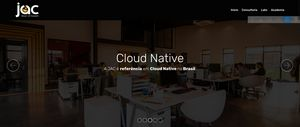
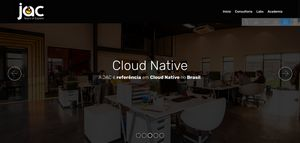
Remove Labs do Menu

diff --git a/index.html b/index.html
@@ -13,12 +13,11 @@ Consultoria, serviços e treinamentos. Sob medida. Simples assim.">
   
   <title>JAC | Team of experts</title>
   <link rel="stylesheet" href="assets/web/assets/mobirise-icons/mobirise-icons.css">
-  <link rel="stylesheet" href="assets/facebook-plugin/style.css">
   <link rel="stylesheet" href="assets/bootstrap/css/bootstrap.min.css">
   <link rel="stylesheet" href="assets/bootstrap/css/bootstrap-grid.min.css">
   <link rel="stylesheet" href="assets/bootstrap/css/bootstrap-reboot.min.css">
-  <link rel="stylesheet" href="assets/dropdown/css/style.css">
   <link rel="stylesheet" href="assets/tether/tether.min.css">
+  <link rel="stylesheet" href="assets/dropdown/css/style.css">
   <link rel="stylesheet" href="assets/socicon/css/styles.css">
   <link rel="stylesheet" href="assets/theme/css/style.css">
   <link rel="preload" as="style" href="assets/mobirise/css/mbr-additional.css"><link rel="stylesheet" href="assets/mobirise/css/mbr-additional.css" type="text/css">
@@ -73,9 +72,7 @@ ga('send', 'pageview');
                     <a class="nav-link link text-white display-4" href="consultoria.html">
                         Consultoria</a>
                 </li>
-              <li class="nav-item">
-                    <a class="nav-link link text-white display-4" href="noc.html">Labs</a>
-                </li>
+              
               
                 <li class="nav-item">
                     <a class="nav-link link text-white display-4" href="https://academia.jac.bsb.br" target="_blank">
@@ -86,7 +83,7 @@ ga('send', 'pageview');
     </nav>
 </section>
 
-<section class="engine"><a href="https://mobirise.info/g">how to build a site</a></section><section class="carousel slide cid-rYZTIAFpR9" data-interval="false" id="slider1-12">
+<section class="engine"><a href="https://mobirise.info/i">website creation software</a></section><section class="carousel slide cid-rYZTIAFpR9" data-interval="false" id="slider1-12">
 
     
 
@@ -113,7 +110,7 @@ ga('send', 'pageview');
                     <div class="media-container-column" data-form-type="formoid">
                         <!---Formbuilder Form--->
                       
[2 lines of base64/hex data omitted]
                             <div class="row">
                                 <div hidden="hidden" data-form-alert="" class="alert alert-success col-12">Em breve responderemos sua mensagem!</div>
                                 <div hidden="hidden" data-form-alert-danger="" class="alert alert-danger col-12">
@@ -603,26 +600,23 @@ ga('send', 'pageview');
 
   <script src="assets/web/assets/jquery/jquery.min.js"></script>
   <script src="assets/popper/popper.min.js"></script>
-  <script src="https://connect.facebook.net/en_US/sdk.js#xfbml=1&version=v2.5"></script>
-  <script src="https://apis.google.com/js/plusone.js"></script>
-  <script src="assets/facebook-plugin/facebook-script.js"></script>
   <script src="assets/bootstrap/js/bootstrap.min.js"></script>
+  <script src="assets/parallax/jarallax.min.js"></script>
   <script src="assets/smoothscroll/smooth-scroll.js"></script>
-  <script src="assets/vimeoplayer/jquery.mb.vimeo_player.js"></script>
-  <script src="assets/dropdown/js/nav-dropdown.js"></script>
-  <script src="assets/dropdown/js/navbar-dropdown.js"></script>
   <script src="assets/touchswipe/jquery.touch-swipe.min.js"></script>
   <script src="assets/ytplayer/jquery.mb.ytplayer.min.js"></script>
+  <script src="assets/vimeoplayer/jquery.mb.vimeo_player.js"></script>
   <script src="assets/tether/tether.min.js"></script>
   <script src="assets/bootstrapcarouselswipe/bootstrap-carousel-swipe.js"></script>
-  <script src="assets/parallax/jarallax.min.js"></script>
+  <script src="assets/dropdown/js/nav-dropdown.js"></script>
+  <script src="assets/dropdown/js/navbar-dropdown.js"></script>
   <script src="assets/viewportchecker/jquery.viewportchecker.js"></script>
   <script src="assets/mbr-testimonials-slider/mbr-testimonials-slider.js"></script>
   <script src="assets/mbr-clients-slider/mbr-clients-slider.js"></script>
   <script src="assets/mbr-switch-arrow/mbr-switch-arrow.js"></script>
   <script src="assets/theme/js/script.js"></script>
-  <script src="assets/slidervideo/script.js"></script>
   <script src="assets/formoid/formoid.min.js"></script>
+  <script src="assets/slidervideo/script.js"></script>
   
   
 </body>

diff --git a/noc.html b/noc.html
@@ -12,13 +12,12 @@
   
   <title>NOC ORCHESTRATOR - JAC | Team of Experts</title>
   <link rel="stylesheet" href="assets/web/assets/mobirise-icons/mobirise-icons.css">
-  <link rel="stylesheet" href="assets/facebook-plugin/style.css">
   <link rel="stylesheet" href="assets/bootstrap/css/bootstrap.min.css">
   <link rel="stylesheet" href="assets/bootstrap/css/bootstrap-grid.min.css">
   <link rel="stylesheet" href="assets/bootstrap/css/bootstrap-reboot.min.css">
+  <link rel="stylesheet" href="assets/socicon/css/styles.css">
   <link rel="stylesheet" href="assets/dropdown/css/style.css">
   <link rel="stylesheet" href="assets/tether/tether.min.css">
-  <link rel="stylesheet" href="assets/socicon/css/styles.css">
   <link rel="stylesheet" href="assets/theme/css/style.css">
   <link rel="preload" as="style" href="assets/mobirise/css/mbr-additional.css"><link rel="stylesheet" href="assets/mobirise/css/mbr-additional.css" type="text/css">
   
@@ -72,9 +71,7 @@ ga('send', 'pageview');
                     <a class="nav-link link text-white display-4" href="consultoria.html">
                         Consultoria</a>
                 </li>
-              <li class="nav-item">
-                    <a class="nav-link link text-white display-4" href="noc.html">Labs</a>
-                </li>
+              
               
                 <li class="nav-item">
                     <a class="nav-link link text-white display-4" href="https://academia.jac.bsb.br" target="_blank">
@@ -85,7 +82,7 @@ ga('send', 'pageview');
     </nav>
 </section>
 
-<section class="engine"><a href="https://mobirise.info/g">how to build a website for free</a></section><section class="mbr-section content4 cid-rZ0fWxIPrX" id="content4-1c">
+<section class="engine"><a href="https://mobirise.info/d">free website maker</a></section><section class="mbr-section content4 cid-rZ0fWxIPrX" id="content4-1c">
 
     
 
@@ -584,7 +581,7 @@ ga('send', 'pageview');
         <div class="row justify-content-center">
             <div class="media-container-column col-lg-8" data-form-type="formoid">
                 <!---Formbuilder Form--->
[2 lines of base64/hex data omitted]
                     <div class="row">
                         <div hidden="hidden" data-form-alert="" class="alert alert-success col-12">Obrigado pelo contato!</div>
                         <div hidden="hidden" data-form-alert-danger="" class="alert alert-danger col-12">
@@ -668,18 +665,15 @@ ga('send', 'pageview');
 
   <script src="assets/web/assets/jquery/jquery.min.js"></script>
   <script src="assets/popper/popper.min.js"></script>
-  <script src="https://connect.facebook.net/en_US/sdk.js#xfbml=1&version=v2.5"></script>
-  <script src="https://apis.google.com/js/plusone.js"></script>
-  <script src="assets/facebook-plugin/facebook-script.js"></script>
   <script src="assets/bootstrap/js/bootstrap.min.js"></script>
   <script src="assets/smoothscroll/smooth-scroll.js"></script>
   <script src="assets/dropdown/js/nav-dropdown.js"></script>
   <script src="assets/dropdown/js/navbar-dropdown.js"></script>
-  <script src="assets/tether/tether.min.js"></script>
   <script src="assets/touchswipe/jquery.touch-swipe.min.js"></script>
   <script src="assets/parallax/jarallax.min.js"></script>
   <script src="assets/viewportchecker/jquery.viewportchecker.js"></script>
   <script src="assets/countdown/jquery.countdown.min.js"></script>
+  <script src="assets/tether/tether.min.js"></script>
   <script src="assets/theme/js/script.js"></script>
   <script src="assets/formoid/formoid.min.js"></script>
   

diff --git a/consultoria.html b/consultoria.html
@@ -12,13 +12,12 @@
   
   <title>Consultoria - JAC | Team of experts</title>
   <link rel="stylesheet" href="assets/web/assets/mobirise-icons/mobirise-icons.css">
-  <link rel="stylesheet" href="assets/facebook-plugin/style.css">
   <link rel="stylesheet" href="assets/bootstrap/css/bootstrap.min.css">
   <link rel="stylesheet" href="assets/bootstrap/css/bootstrap-grid.min.css">
   <link rel="stylesheet" href="assets/bootstrap/css/bootstrap-reboot.min.css">
+  <link rel="stylesheet" href="assets/socicon/css/styles.css">
   <link rel="stylesheet" href="assets/dropdown/css/style.css">
   <link rel="stylesheet" href="assets/tether/tether.min.css">
-  <link rel="stylesheet" href="assets/socicon/css/styles.css">
   <link rel="stylesheet" href="assets/theme/css/style.css">
   <link rel="preload" as="style" href="assets/mobirise/css/mbr-additional.css"><link rel="stylesheet" href="assets/mobirise/css/mbr-additional.css" type="text/css">
   
@@ -72,9 +71,7 @@ ga('send', 'pageview');
                     <a class="nav-link link text-white display-4" href="consultoria.html">
                         Consultoria</a>
                 </li>
-              <li class="nav-item">
-                    <a class="nav-link link text-white display-4" href="noc.html">Labs</a>
-                </li>
+              
               
                 <li class="nav-item">
                     <a class="nav-link link text-white display-4" href="https://academia.jac.bsb.br" target="_blank">
@@ -85,7 +82,7 @@ ga('send', 'pageview');
     </nav>
 </section>
 
-<section class="engine"><a href="https://mobirise.info/q">free responsive site templates</a></section><section class="mbr-section content4 cid-rZ02gkfwUH" id="content4-19">
+<section class="engine"><a href="https://mobirise.info/f">easy web builder</a></section><section class="mbr-section content4 cid-rZ02gkfwUH" id="content4-19">
 
     
 
@@ -233,7 +230,7 @@ ga('send', 'pageview');
         <div class="row justify-content-center">
             <div class="media-container-column col-lg-8" data-form-type="formoid">
                 <!---Formbuilder Form--->
[2 lines of base64/hex data omitted]
                     <div class="row">
                         <div hidden="hidden" data-form-alert="" class="alert alert-success col-12">Obrigado pelo contato!</div>
                         <div hidden="hidden" data-form-alert-danger="" class="alert alert-danger col-12">
@@ -317,17 +314,14 @@ ga('send', 'pageview');
 
   <script src="assets/web/assets/jquery/jquery.min.js"></script>
   <script src="assets/popper/popper.min.js"></script>
-  <script src="https://connect.facebook.net/en_US/sdk.js#xfbml=1&version=v2.5"></script>
-  <script src="https://apis.google.com/js/plusone.js"></script>
-  <script src="assets/facebook-plugin/facebook-script.js"></script>
   <script src="assets/bootstrap/js/bootstrap.min.js"></script>
   <script src="assets/smoothscroll/smooth-scroll.js"></script>
   <script src="assets/dropdown/js/nav-dropdown.js"></script>
   <script src="assets/dropdown/js/navbar-dropdown.js"></script>
-  <script src="assets/tether/tether.min.js"></script>
   <script src="assets/touchswipe/jquery.touch-swipe.min.js"></script>
   <script src="assets/parallax/jarallax.min.js"></script>
   <script src="assets/mbr-switch-arrow/mbr-switch-arrow.js"></script>
+  <script src="assets/tether/tether.min.js"></script>
   <script src="assets/theme/js/script.js"></script>
   <script src="assets/formoid/formoid.min.js"></script>
   
